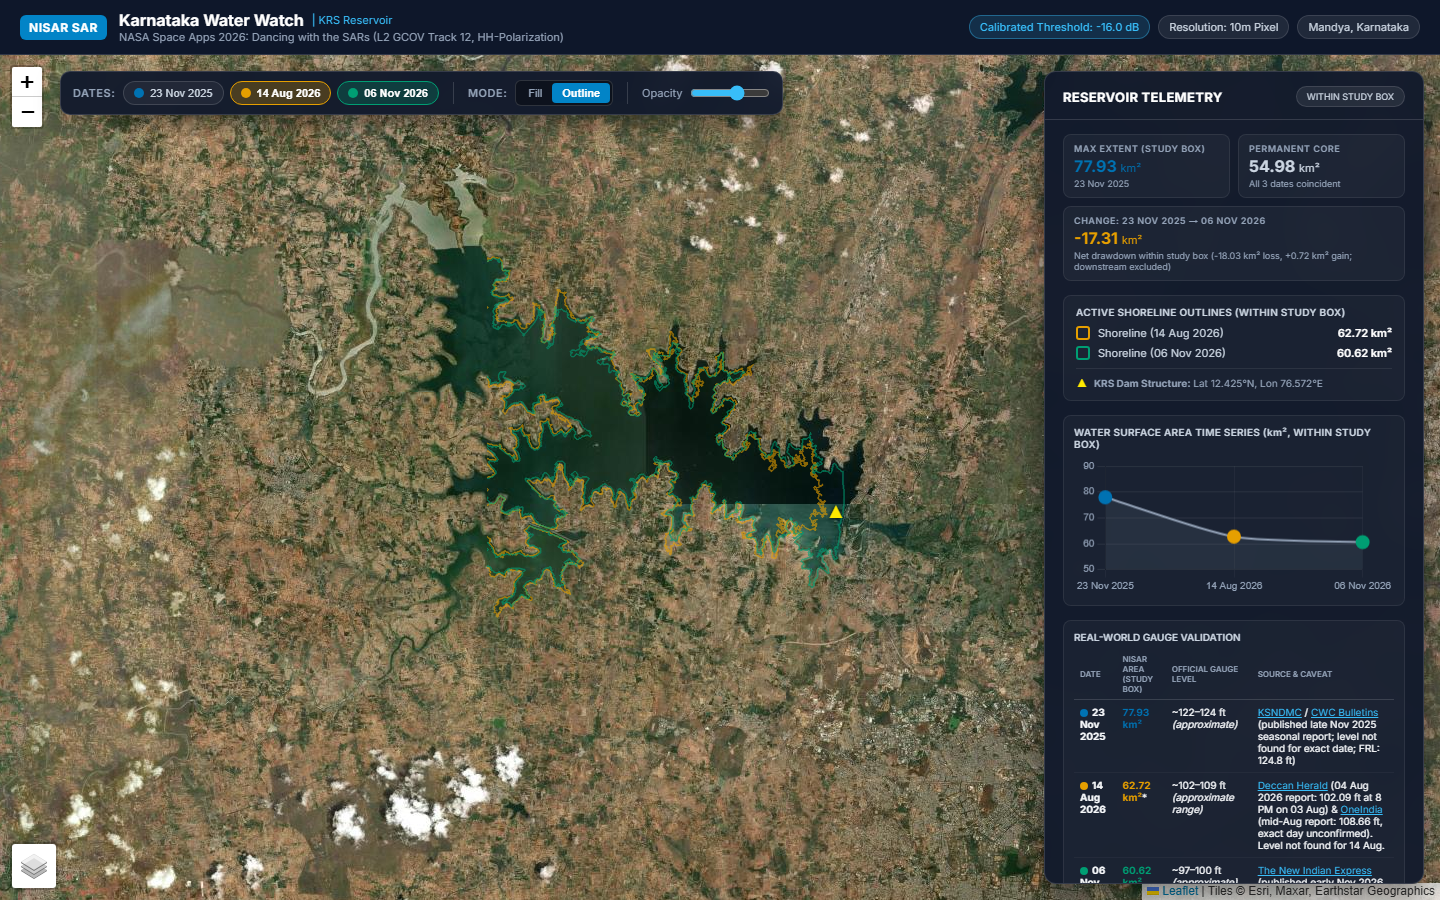
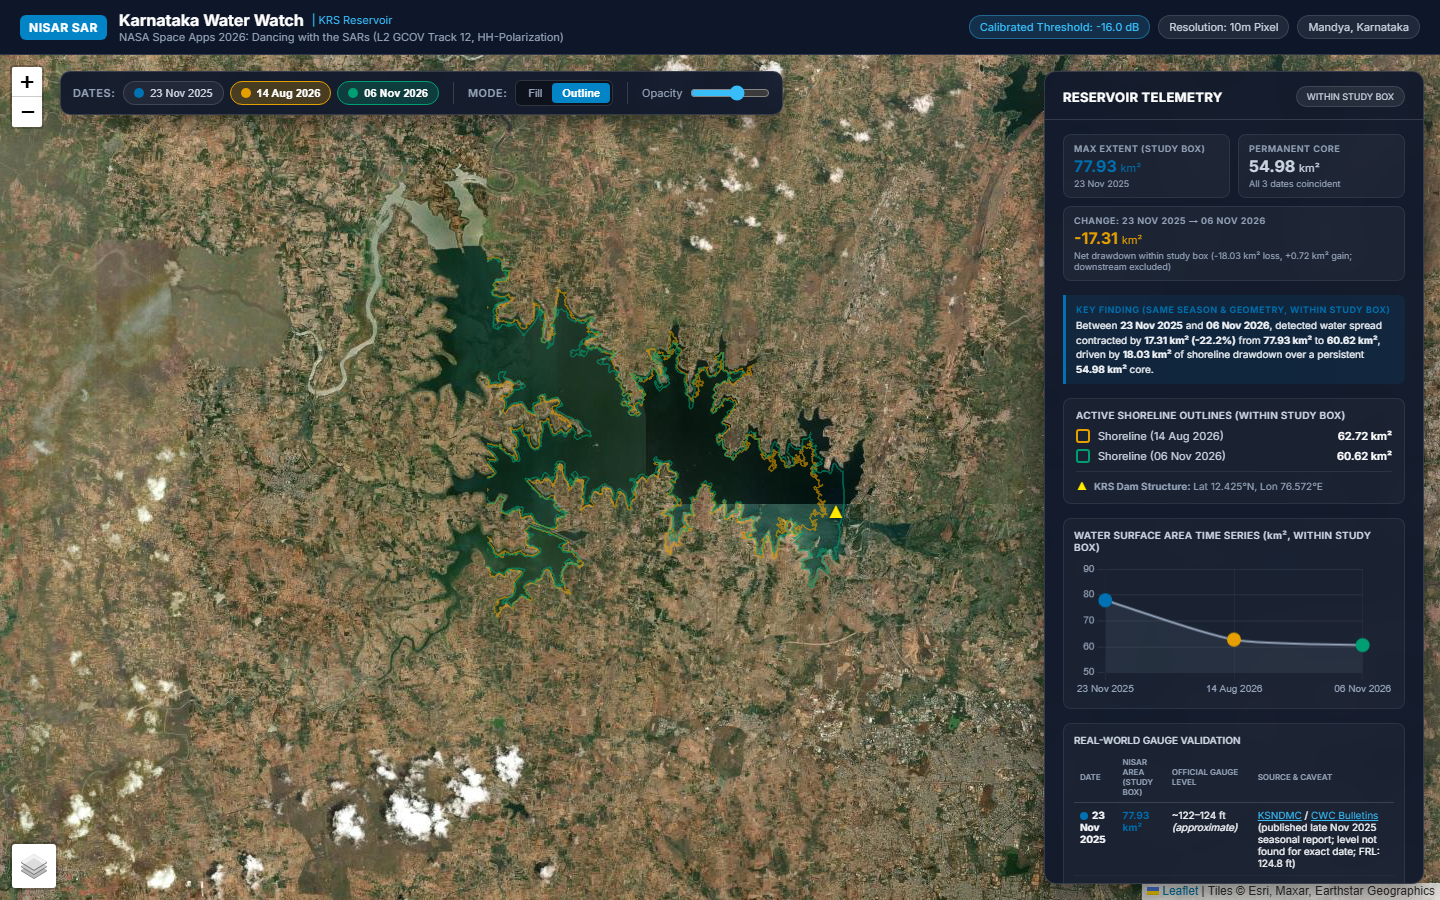
feat(telemetry): add prominent Key Finding line comparing Nov 2025 to Nov 2026, move mismatch analysis into Data & Limits

Changed region(s): [[0.7188, 0.3422, 0.9688, 0.9956], [0.75, 0.9644, 0.8438, 0.9956]]

diff --git a/web/index.html b/web/index.html
@@ -633,6 +633,12 @@
                     </div>
                 </div>
 
+                <!-- Key Finding Callout (Same Season & Geometry) -->
+                <div style="background: rgba(0, 114, 178, 0.12); border-left: 3px solid var(--color-date1); padding: 8px 10px; border-radius: 0 6px 6px 0; font-size: 10px; line-height: 1.45; color: #f1f5f9;">
+                    <b style="color: var(--color-date1); text-transform: uppercase; font-size: 9px; letter-spacing: 0.5px; display: block; margin-bottom: 2px;">Key Finding (Same Season &amp; Geometry, Within Study Box)</b>
+                    Between <b>23 Nov 2025</b> and <b>06 Nov 2026</b>, detected water spread contracted by <b>17.31 km² (-22.2%)</b> from <b>77.93 km²</b> to <b>60.62 km²</b>, driven by <b>18.03 km²</b> of shoreline drawdown over a persistent <b>54.98 km²</b> core.
+                </div>
+
                 <!-- Dynamic Overlay Legend Box -->
                 <div class="legend-box" id="legendContainer">
                     <div class="legend-header" id="legendTitle">ACTIVE OVERLAY LEGEND (WITHIN STUDY BOX)</div>
@@ -706,9 +712,6 @@
                         <b>Storage Capacity Basis &amp; Divergence:</b> Official KSNDMC &amp; CWC figures reference <b>49.452 TMC Gross
                             Storage Capacity</b> at FRL 124.80 ft (dead storage: 4.38 TMC; live capacity: 45.07 TMC). Note that media outlets compute capacity percentages differently: some use Gross Capacity (49.45 TMC) while others use Live Capacity (45.07 TMC), causing reported percentages to vary by 5–10% across sources for the same volume.
                     </p>
-                    <p style="font-size: 9px; color: var(--accent-blue); margin-top: 5px; line-height: 1.4;">
-                        <b>August Surface Sensitivity (Hypothesis):</b> A 4.92 km² open-water patch near the dam is detected in Nov '25 and Nov '26 but missed in Aug '26. Empirical analysis reveals August water backscatter is +1.1 to +1.2 dB brighter (median -15.68 dB vs -16.93 dB in Nov '25), placing 75% of patch pixels in the -16 to -14 dB range. This elevation is hypothesized to stem from monsoonal surface roughness (wind capillary waves or rain agitation), making threshold classification highly sensitive.
-                    </p>
                 </div>
 
                 <!-- Data & Limits Section -->
@@ -716,14 +719,11 @@
                     <b style="color: var(--color-date2);">DATA &amp; LIMITS</b>
                     <ul style="margin-left: 14px; margin-top: 4px; font-size: 9px; line-height: 1.45; color: #cbd5e1;">
                         <li><b>Spatial Truncation:</b> The study box clips ~40% of the full reservoir water-spread area (~45% of linear E-W reach west of 76.450°E), capturing ~60% of FRL (77.93 km² of ~129.5 km² published FRL spread). All stats apply strictly within the study box.</li>
-                        <li><b>Sparse Temporal Sampling:</b> Only 3 NISAR Track 12 GCOV acquisitions exist across
-                            2025–2026.</li>
-                        <li><b>Threshold Sensitivity:</b> Calibrated fixed threshold (-16.0 dB, HH). Wind-induced
-                            capillary waves or rain can elevate water backscatter causing omission error.</li>
-                        <li><b>Validation Ground Truth:</b> Confirmed monotonic agreement with official KSNDMC reservoir
-                            gauge levels (123.6 ft &gt; 108.7 ft &gt; 98.5 ft).</li>
-                        <li><b>Dam Embankment Artifact:</b> The ~1.19 km² gain near the dam is influenced by radar
-                            double-bounce layover on steep masonry structures.</li>
+                        <li><b>August Surface Backscatter Sensitivity (Hypothesis):</b> A 4.92 km² open-water patch near the dam is detected in Nov '25 and Nov '26 but missed in Aug '26 due to +1.1 to +1.2 dB brighter backscatter (median -15.68 dB vs -16.93 dB), placing 75% of patch pixels in the -16 to -14 dB range. This is hypothesized to result from monsoonal surface roughness (wind capillary waves or rain agitation), creating threshold omission without coincident meteorological verification.</li>
+                        <li><b>Sparse Temporal Sampling:</b> Only 3 NISAR Track 12 GCOV acquisitions exist across 2025–2026.</li>
+                        <li><b>Threshold Sensitivity:</b> Calibrated fixed threshold (-16.0 dB, HH). Monsoonal waves or rain can elevate water backscatter causing omission error.</li>
+                        <li><b>Validation Ground Truth:</b> Verified monotonic agreement with official KSNDMC reservoir gauge levels (~122–124 ft &gt; ~102–109 ft &gt; ~97–100 ft).</li>
+                        <li><b>Dam Downstream Cutoff:</b> All masks are clipped to the reservoir side of the dam wall, excluding 0.95 km² of downstream irrigation canals and flooded paddy fields.</li>
                     </ul>
                 </div>
             </div>

diff --git a/pipeline/run_science_pipeline.py b/pipeline/run_science_pipeline.py
@@ -385,6 +385,7 @@ stats = {
     },
     "epochs": [],
     "change_analysis": {
+        "key_finding": "Between 23 Nov 2025 and 06 Nov 2026 (same post-monsoon season and viewing geometry), detected water spread contracted by 17.31 km² (-22.2%) from 77.93 km² to 60.62 km² within the study box, driven by 18.03 km² of shoreline drawdown over a persistent 54.98 km² permanent core.",
         "permanent_water_km2": permanent_km2,
         "monsoon_expansion_km2": monsoon_exp_km2,
         "total_seasonal_gain_km2": seasonal_gain_km2,
